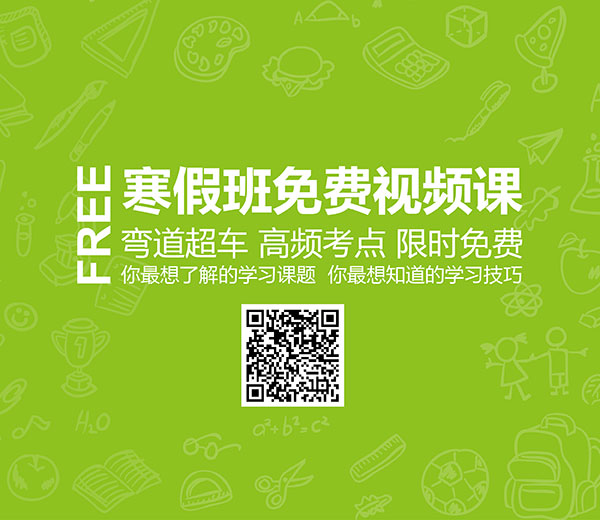
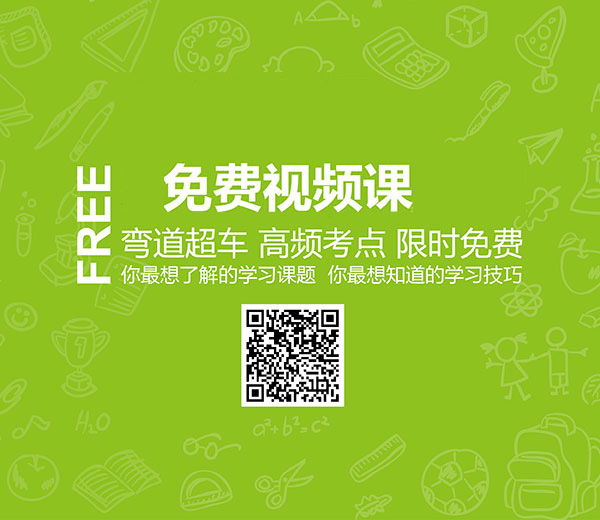
修改网站首页轮播，增加活动

Changed region(s): [[0.18, 0.3077, 0.87, 0.4308], [0.42, 0.1231, 0.54, 0.1846], [0.3, 0.1231, 0.39, 0.1846]]

diff --git a/index.html b/index.html
@@ -99,6 +99,30 @@
         <!--Slider Items-->
         <div class="sl-slider">
             <!--Slider Item1-->
+            <div class="sl-slide item6" data-orientation="horizontal" data-slice1-rotation="25" data-slice2-rotation="35" data-slice1-scale="2" data-slice2-scale="1">
+                    <div class="sl-slide-inner">
+                       <div class="container">
+                        <img class="pull-right simg" src="images/sample/slider/2018hzxg.jpg" alt="" />
+                        <h2>汉字寻根</h2>
+                        <h3 class="gap">儿童节<br />研学旅行</h3>
+                        <a class="btn btn-large btn-transparent" href="https://mp.weixin.qq.com/s/gDWsyiAjiHt6kE5-8Fj86g" style="margin-top:-20px;">去围观</a>
+                       </div>
+                    </div>
+                </div>
+                <!--Slider Item1-->
+            <!--Slider Item1-->
+            <div class="sl-slide item4" data-orientation="horizontal" data-slice1-rotation="25" data-slice2-rotation="35" data-slice1-scale="2" data-slice2-scale="1">
+                <div class="sl-slide-inner">
+                   <div class="container">
+                    <img class="pull-right simg" src="images/sample/slider/2018mk.jpg" alt="" />
+                    <h2>高考加油</h2>
+                    <h3 class="gap">无线星空诚意出品<br />模考班视频</h3>
+                    <a class="btn btn-large btn-transparent" href="http://wxxk.org/gk/" style="margin-top:-20px;">看视频</a>
+                   </div>
+                </div>
+            </div>
+            <!--Slider Item1-->
+            <!--Slider Item1-->
             <div class="sl-slide item5" data-orientation="horizontal" data-slice1-rotation="30" data-slice2-rotation="30" data-slice1-scale="2" data-slice2-scale="1">
                 <div class="sl-slide-inner">
                    <div class="container">
@@ -140,7 +164,7 @@
                    <div class="container">
                     <img class="pull-right simg" src="images/sample/slider/spqm2.jpg" alt="" />
                     <h2>在线视频课</h2>
-                    <h3 class="gap">寒假班课程限时免费</h3>
+                    <h3 class="gap">视频课限时免费</h3>
                     <a class="btn btn-large btn-transparent" href="http://wxxk.org/video/selectClass.html" style="margin-top:-20px;">免费视频课</a>
                    </div>
                 </div>
@@ -521,23 +545,23 @@
             <!--Item 2-->
             <li>
                 <div class="preview">
-                    <img alt=" " src="images/mm113.jpg">
+                    <img alt=" " src="images/mm74.jpg">
                     <div class="overlay">
                     </div>
                     <div class="links">
                         <a data-toggle="modal" href="#modal-10"></a>
-                        <input type="hidden" value="李岩"/>
+                        <input type="hidden" value="杜祥"/>
                         <input type="hidden" value="中考"/>
                     </div>
                 </div>
                 <div class="desc">
-                    <p>英语教师：李岩</p>
+                    <p>数学教师：杜祥</p>
                     <input type="hidden" value="中考"/>
                 </div>
                 <div id="modal-10" class="modal hide fade">
                     <a class="close-modal" href="javascript:;" data-dismiss="modal" aria-hidden="true" style="float:right; background-color:#2DCC70; color:#fff; padding:1px 5px;">&nbsp;X&nbsp;</a>
                     <div class="modal-body">
-                        <img src="images/cc113.jpg" alt="英语教师：李岩" width="300px" style="max-height:450px"><p><h3>李岩<br />中考英语教师</h3>简介：无线星空初中部产品研发主管、英语项目负责人。曾荣获英国剑桥大学外语考试部颁发“英语教学能力优秀”TKT证书。从事英语教育行业10年。精通各类版本中学英语教材，主编《陕西省中考英语精编习题》、《中考英语词汇2000个》、《陕西省五大名校模拟真卷分析》等系列丛书。</p>
+                        <img src="images/cc74.jpg" alt="英语教师：杜祥" width="300px" style="max-height:450px"><p><h3>杜祥<br />中考数学教师</h3>简介：无线星空初中部数学项目主管。以“最接地气式”的教学方式引导学生在课堂上轻轻松松学到知识，并在学习的过程中引导学生正确的认识自己的问题所在，深受学生的喜爱，丰富的教学经验使其对初中数学有着自己独特的研究，重视学生对于解题技巧及模型的熟练掌握，课堂语言幽默，氛围活跃，善于在课堂中寓教于乐，让学生们都积极参与到班级教学活动中，使学生们碰到题目步步为赢，不再头疼。</p>
 <table width="100%" cellpadding="0" cellspacing="0" class="table table-bordered table-hover">
  </table>
 

diff --git a/c/course.html b/c/course.html
@@ -7,7 +7,7 @@
 <head>
     <meta charset="utf-8">
     <meta http-equiv="X-UA-Compatible" content="IE=edge,chrome=1">
-    <title>2017无线星空最新优惠_无线星空教育</title>
+    <title>2018无线星空最新优惠_无线星空教育</title>
     <meta name="description" content="无线星空教育：029-84561188，无线星空教育由教育界资深人士联合创建，公司共有教学区17个，教学面积三万平米，员工300余名，遍布于西安市区及陕西省各地市。无线星空专注于中小学K12教育，核心业务为中小学文化课培训精品班；一对一高端VIP；全日制补习学校；国际游学及留学业务。">
     <meta name="keywords" content="无线星空,无线星空教育,西安高中课程,陕西高中课程,西安数学课程,西安英语课程,西安高中1对1,西安大班课程">
     <meta name="viewport" content="width=device-width">
@@ -193,7 +193,7 @@ filter:alpha(opacity=50);"><h1>最新课程</h1>
 <section class="container main" style="margin-top:0px;">
     <div class="container">
         <div class="row-fluid">
-            <h1 align="center" style="margin-bottom:40px;">2017无线星空教育最新课程</h1>
+            <h1 align="center" style="margin-bottom:40px;">2018无线星空教育最新课程</h1>
         </div>
         <div class="row-fluid"> 
         	<div class="span4" style="padding:50px 20px; background-color:#BDE3FF; border-radius:8px;text-align:center">

diff --git a/css/sl-slide.css b/css/sl-slide.css
@@ -118,13 +118,13 @@
 	background: #c11616;
 }
 .item4 .sl-slide-inner {
-	background: #F8C947;
+	background: #3a4c6b;
 }
 .item5 .sl-slide-inner {
-	background: #FFA800;
+	background: #ffa801;
 }
 .item6 .sl-slide-inner {
-	background: #126bcf;
+	background: #576065;
 }
 
 .sl-slider h2 {
